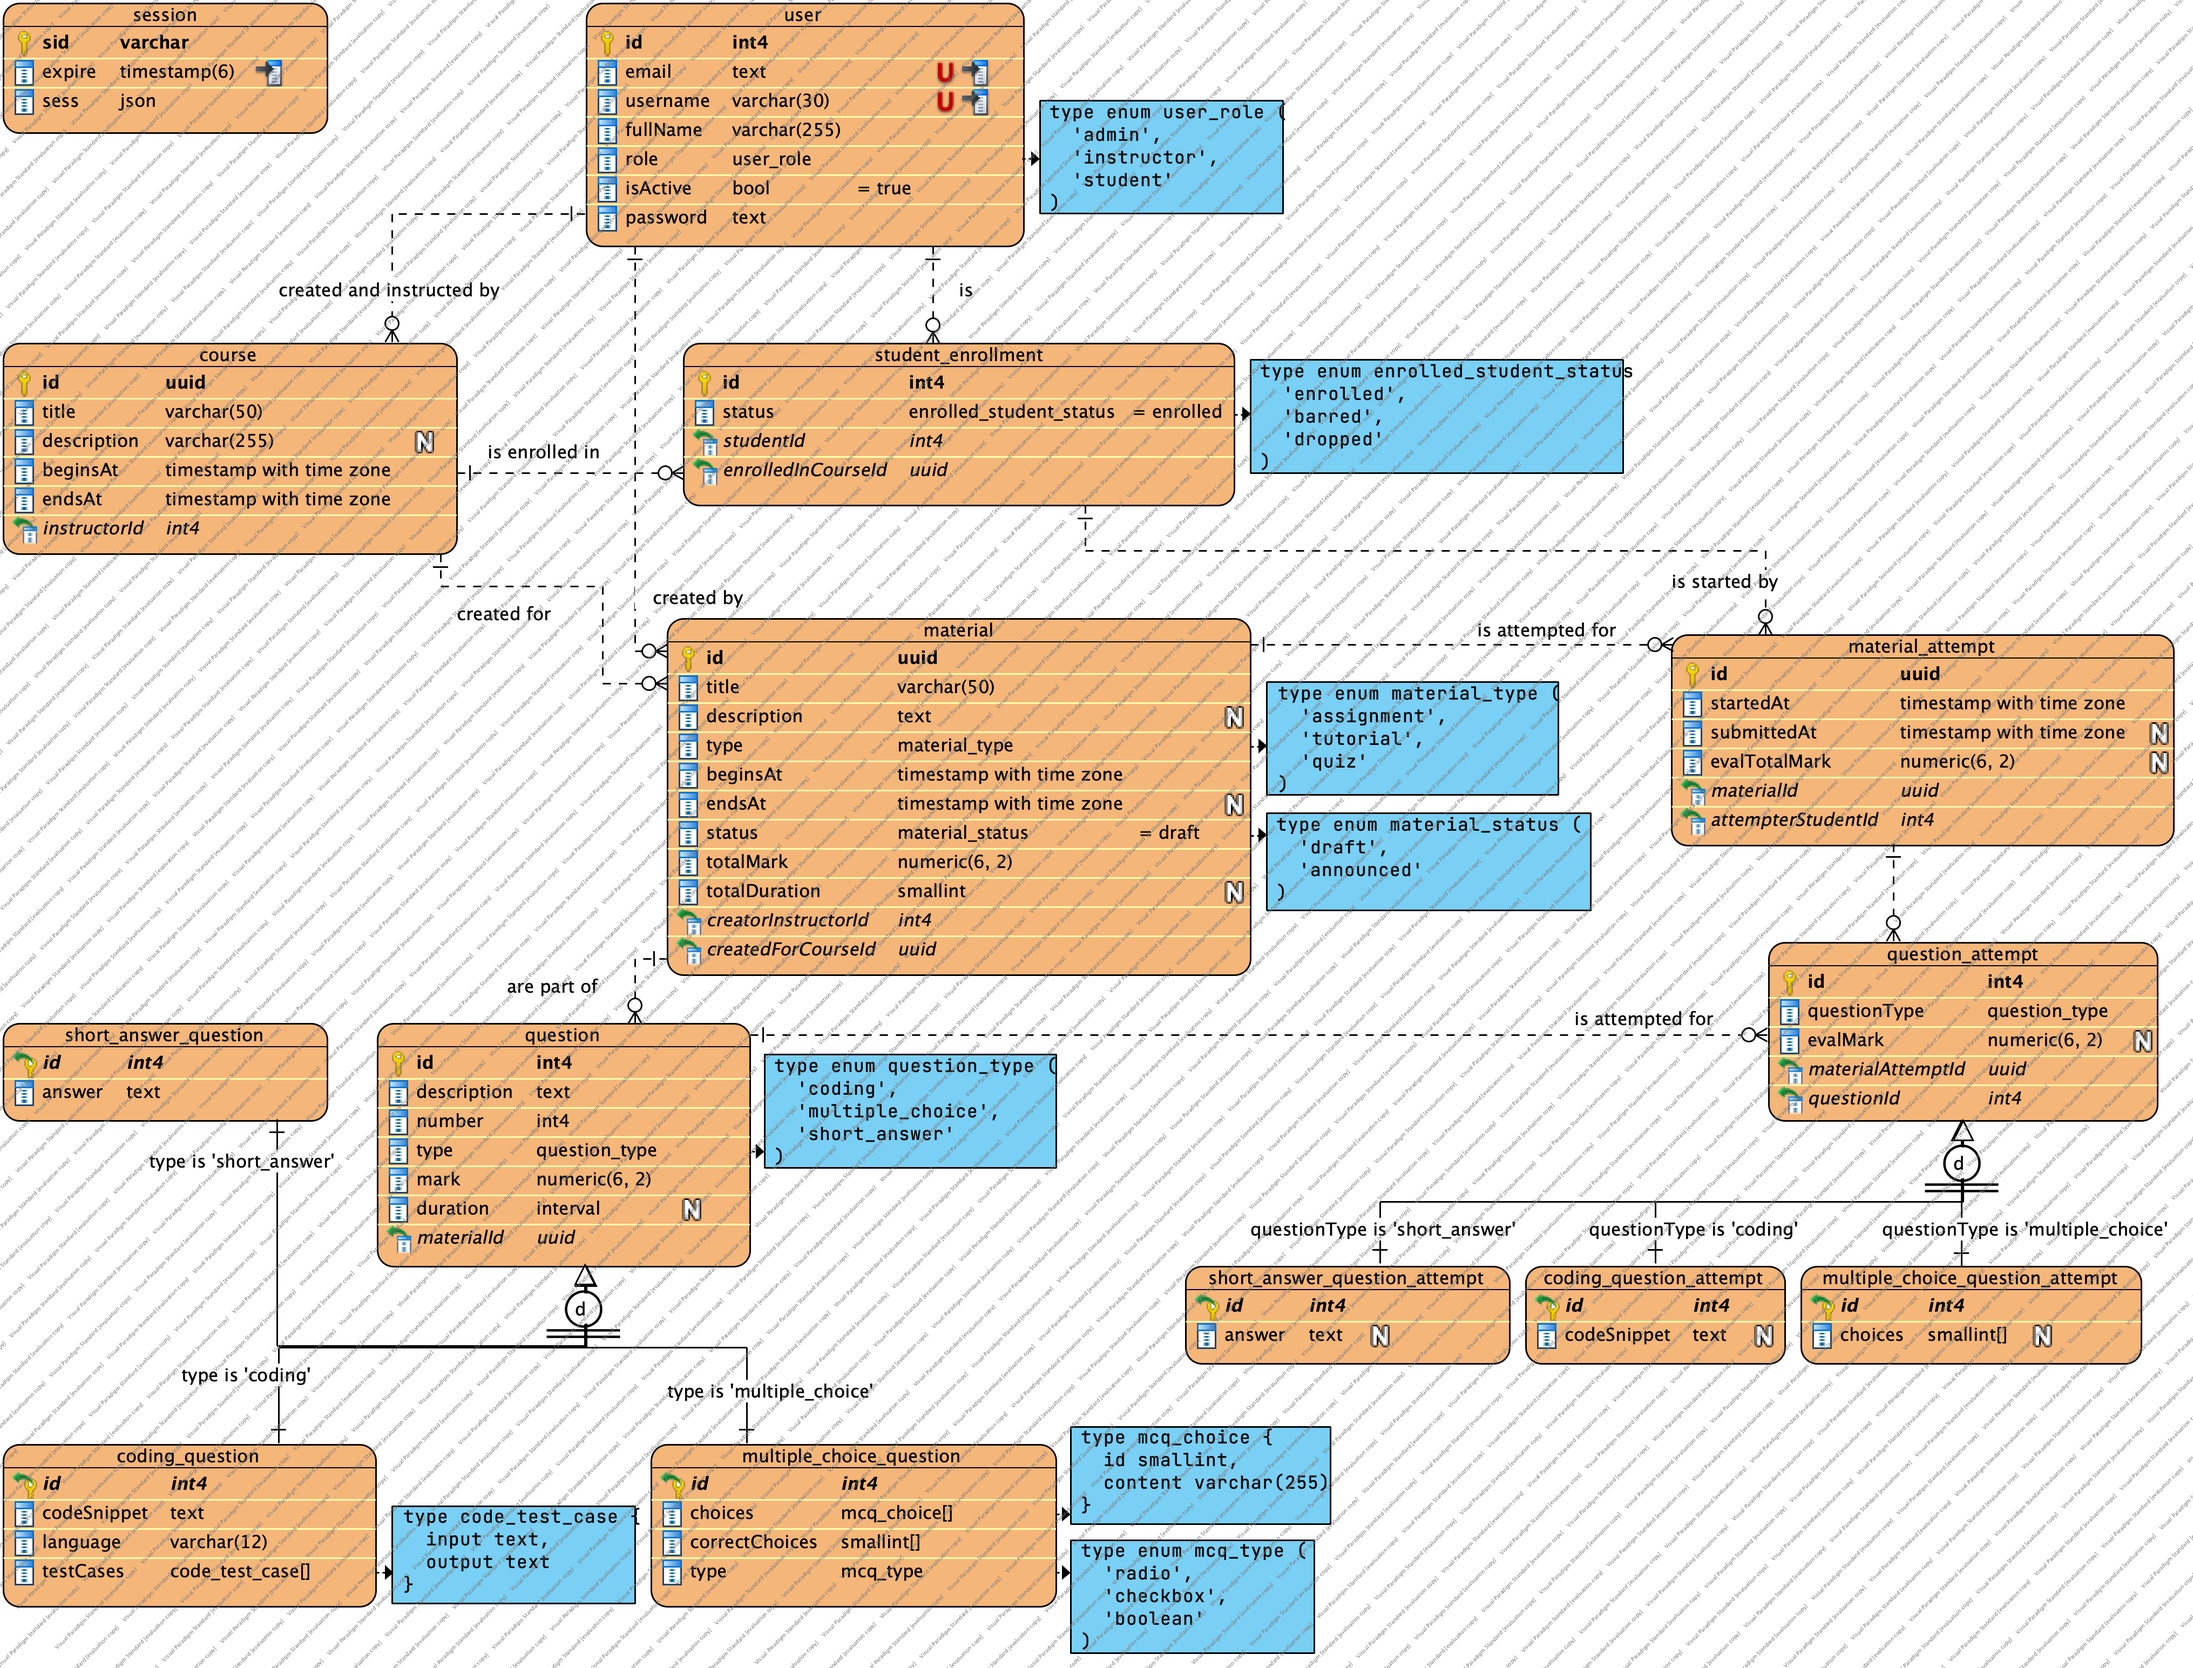
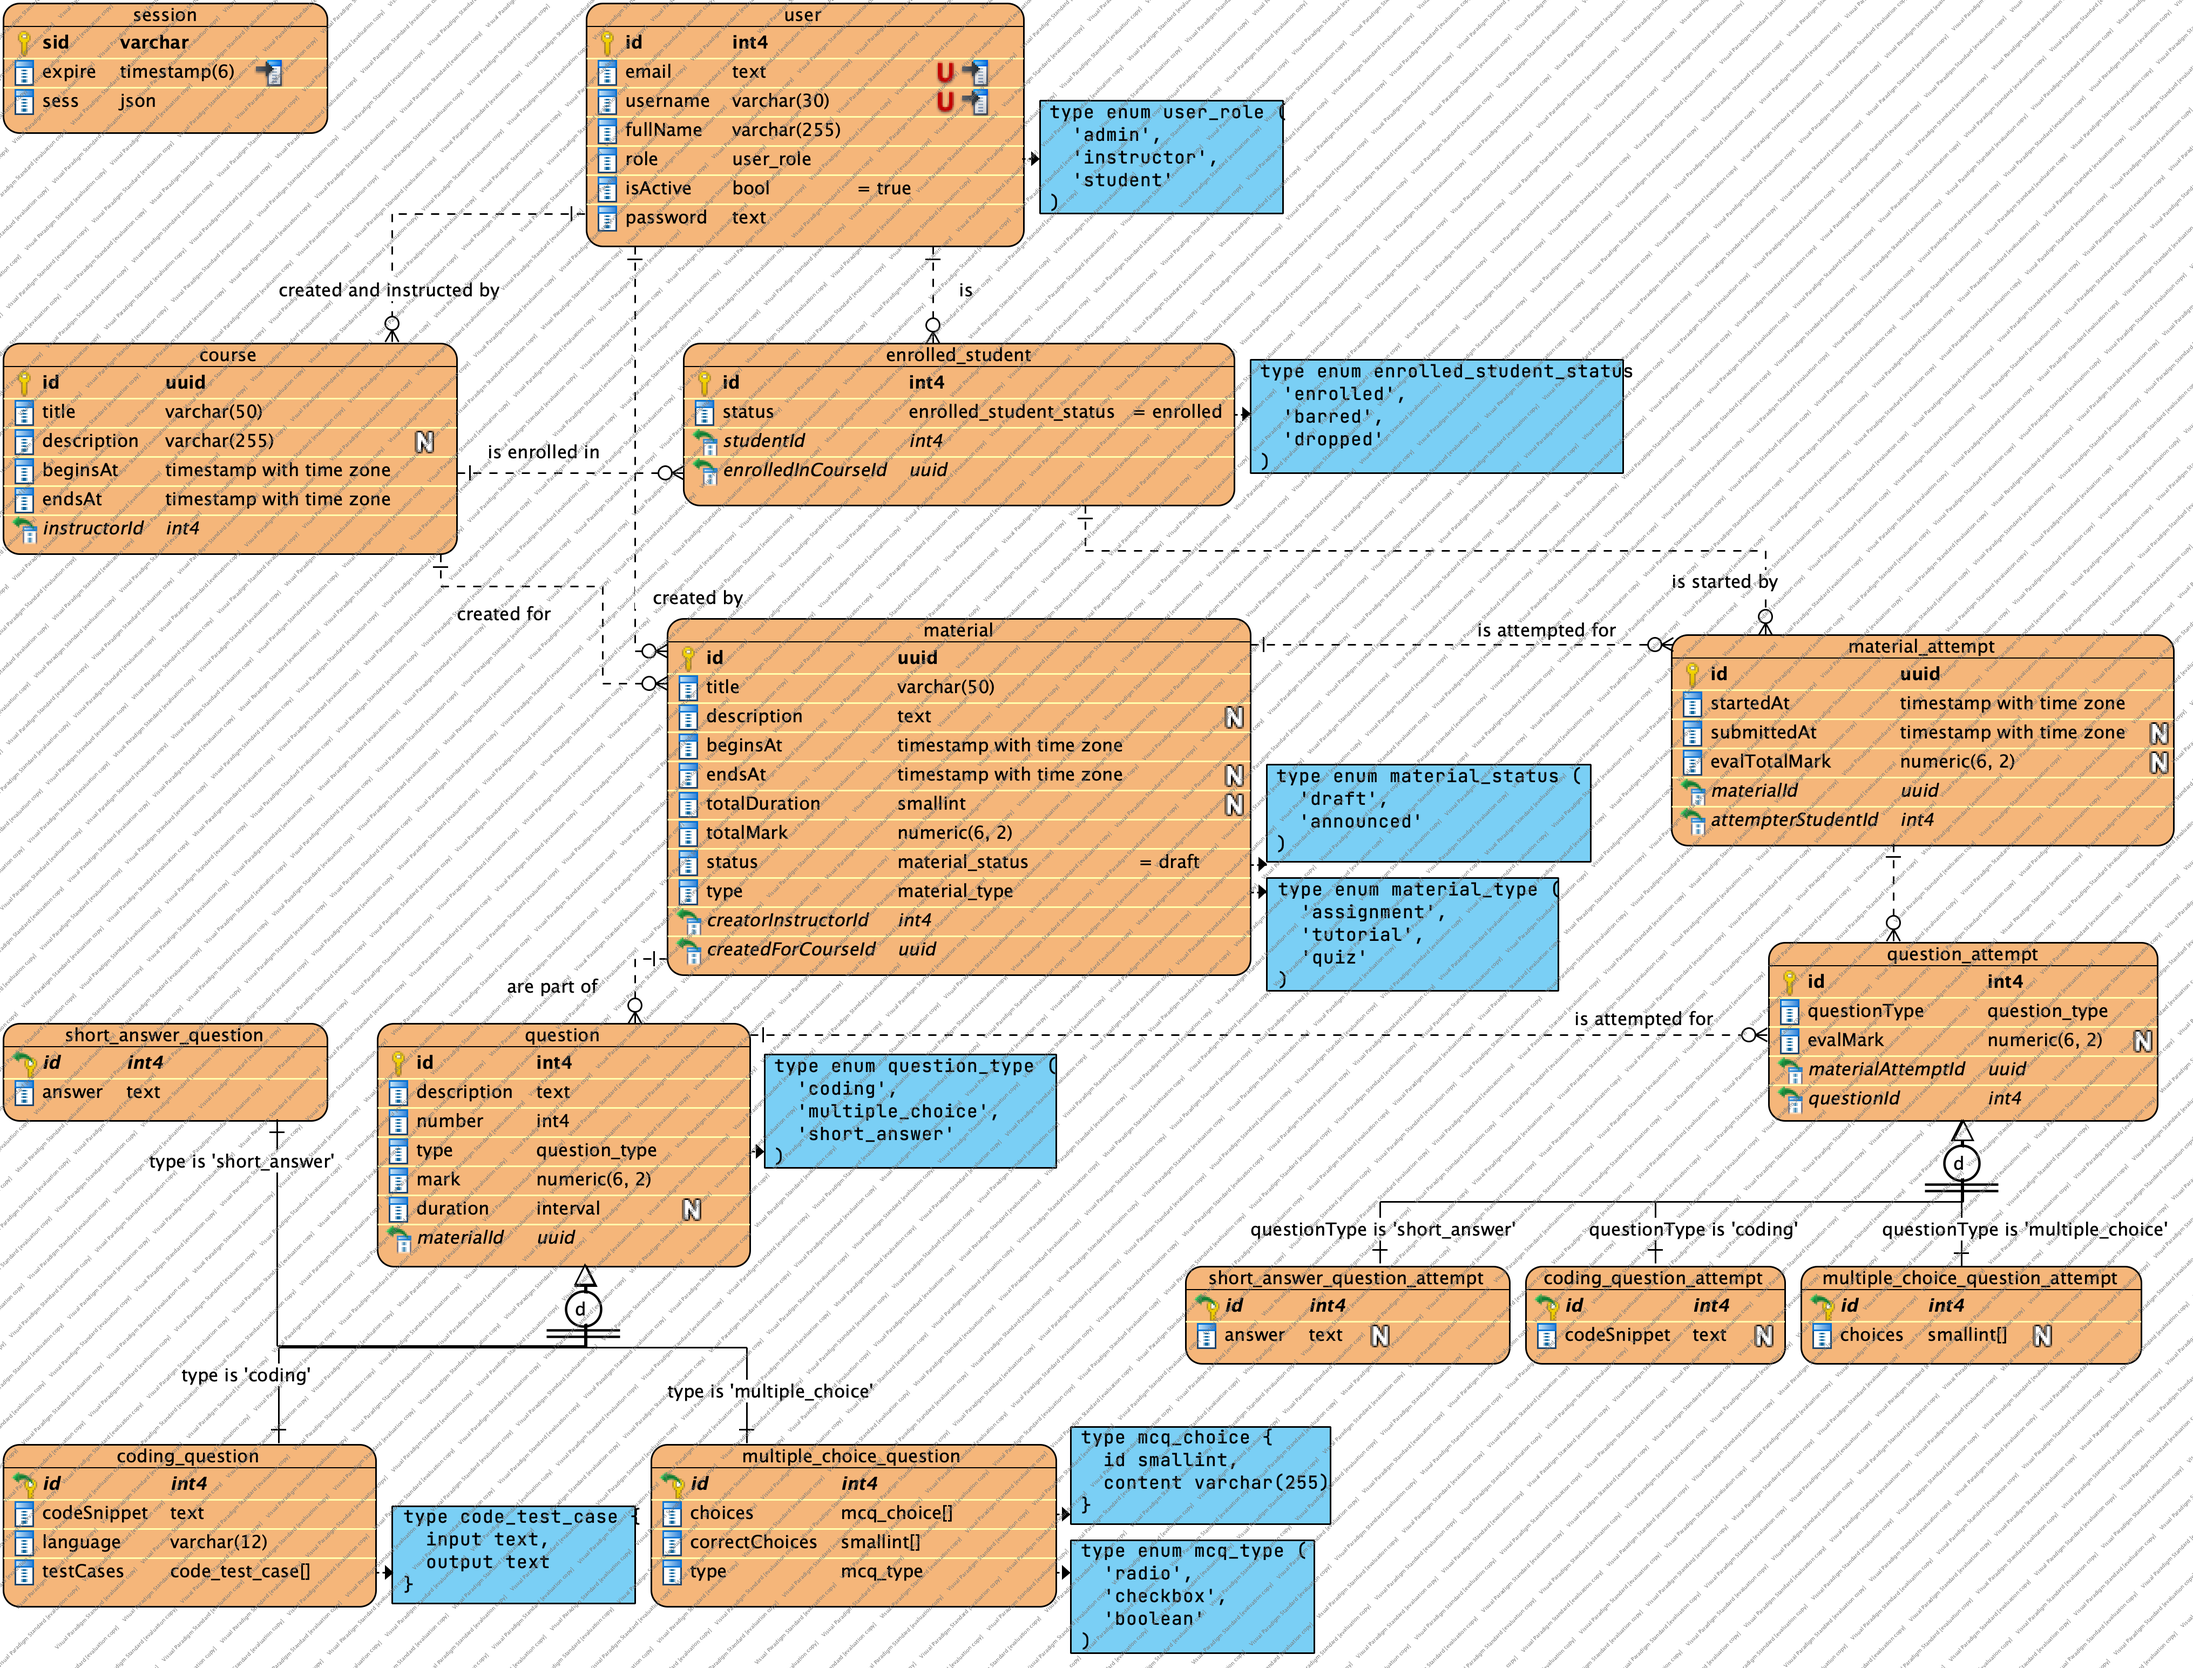
refactor(db/entities): rename `student_enrollment` to `enrolled_student`

diff --git a/libs/shared/data-access/src/lib/enrolled-students/enrolled-students.classes.ts b/libs/shared/data-access/src/lib/enrolled-students/enrolled-students.classes.ts
@@ -5,14 +5,14 @@ import { CourseDto } from '../courses/courses.classes';
 import { IsCourseId } from '../courses/courses.decorators';
 import { UserDto } from '../users/users.classes';
 import { IsUserId } from '../users/users.decorators';
-import { IsStudentEnrollmentId, IsStudentEnrollmentStatus } from './student-enrollments.decorators';
-import { EnrolledStudentStatus } from './student-enrollments.types';
+import { IsEnrolledStudentId, IsEnrolledStudentStatus } from './enrolled-students.decorators';
+import { EnrolledStudentStatus } from './enrolled-students.types';
 
-export class StudentEnrollment {
-  @IsStudentEnrollmentId()
+export class EnrolledStudent {
+  @IsEnrolledStudentId()
   id!: number;
 
-  @IsStudentEnrollmentStatus()
+  @IsEnrolledStudentStatus()
   status = EnrolledStudentStatus.Enrolled;
 
   /* JOINED RELATIONS */
@@ -31,19 +31,19 @@ export class StudentEnrollment {
   enrolledInCourse?: CourseDto;
 }
 
-export class StudentEnrollmentDto extends PickType(StudentEnrollment, [
+export class EnrolledStudentDto extends PickType(EnrolledStudent, [
   'id',
   'status',
   'studentId',
   'enrolledInCourseId',
 ]) {}
 
-export class CreateStudentEnrollmentDto extends PickType(StudentEnrollment, [
+export class CreateEnrolledStudentDto extends PickType(EnrolledStudent, [
   'id',
   'studentId',
   'enrolledInCourse',
 ]) {}
 
-export class CreatedStudentEnrollmentDto extends PickType(StudentEnrollment, ['id']) {}
+export class CreatedEnrolledStudentDto extends PickType(EnrolledStudent, ['id']) {}
 
-export class UpdateStudentEnrollmentDto extends PartialType(CreateStudentEnrollmentDto) {}
+export class UpdateEnrolledStudentDto extends PartialType(CreateEnrolledStudentDto) {}

diff --git a/apps/bff/src/db/entities/enrolled-student.entity.ts b/apps/bff/src/db/entities/enrolled-student.entity.ts
@@ -1,10 +1,10 @@
-import { EnrolledStudentStatus, StudentEnrollment } from '@pcs/shared-data-access';
+import { EnrolledStudent, EnrolledStudentStatus } from '@pcs/shared-data-access';
 import { CourseEntity } from 'src/db/entities/course.entity';
 import { UserEntity } from 'src/db/entities/user.entity';
 import { Column, Entity, JoinColumn, ManyToOne, PrimaryGeneratedColumn } from 'typeorm';
 
-@Entity('student_enrollment')
-export class StudentEnrollmentEntity extends StudentEnrollment {
+@Entity('enrolled_student')
+export class EnrolledStudentEntity extends EnrolledStudent {
   @PrimaryGeneratedColumn('increment')
   id!: number;
 
@@ -20,14 +20,14 @@ export class StudentEnrollmentEntity extends StudentEnrollment {
   @Column('integer')
   studentId!: number;
 
-  @ManyToOne(() => UserEntity, (user) => user.studentEnrollments)
+  @ManyToOne(() => UserEntity, (user) => user.enrolledStudents)
   @JoinColumn({ name: 'studentId', referencedColumnName: 'id' })
   student!: UserEntity;
 
   @Column('integer')
   enrolledInCourseId!: string;
 
-  @ManyToOne(() => CourseEntity, (course) => course.studentEnrollments)
+  @ManyToOne(() => CourseEntity, (course) => course.enrolledStudents)
   @JoinColumn({ name: 'enrolledInCourseId', referencedColumnName: 'id' })
   enrolledInCourse?: CourseEntity;
 }

diff --git a/apps/bff/src/db/entities/course.entity.ts b/apps/bff/src/db/entities/course.entity.ts
@@ -1,6 +1,6 @@
 import { Course } from '@pcs/shared-data-access';
+import { EnrolledStudentEntity } from 'src/db/entities/enrolled-student.entity';
 import { MaterialEntity } from 'src/db/entities/material.entity';
-import { StudentEnrollmentEntity } from 'src/db/entities/student-enrollment.entity';
 import { UserEntity } from 'src/db/entities/user.entity';
 import { Column, Entity, JoinColumn, ManyToOne, OneToMany, PrimaryGeneratedColumn } from 'typeorm';
 
@@ -35,12 +35,8 @@ export class CourseEntity extends Course {
   @OneToMany(() => MaterialEntity, (material) => material.createdForCourse, { nullable: true })
   materials?: MaterialEntity[] | null;
 
-  @OneToMany(
-    () => StudentEnrollmentEntity,
-    (studentEnrollment) => studentEnrollment.enrolledInCourse,
-    {
-      nullable: true,
-    },
-  )
-  studentEnrollments?: StudentEnrollmentEntity[] | null;
+  @OneToMany(() => EnrolledStudentEntity, (enrolledStudent) => enrolledStudent.enrolledInCourse, {
+    nullable: true,
+  })
+  enrolledStudents?: EnrolledStudentEntity[] | null;
 }

diff --git a/apps/bff/src/db/entities/user.entity.ts b/apps/bff/src/db/entities/user.entity.ts
@@ -1,6 +1,6 @@
 import { User, UserRole } from '@pcs/shared-data-access';
+import { EnrolledStudentEntity } from 'src/db/entities/enrolled-student.entity';
 import { MaterialEntity } from 'src/db/entities/material.entity';
-import { StudentEnrollmentEntity } from 'src/db/entities/student-enrollment.entity';
 import { Column, Entity, Index, OneToMany, PrimaryGeneratedColumn } from 'typeorm';
 import { CourseEntity } from './course.entity';
 
@@ -36,8 +36,8 @@ export class UserEntity extends User {
   @OneToMany(() => MaterialEntity, (material) => material.creatorInstructor, { nullable: true })
   instructorCreatedMaterials?: MaterialEntity[] | null;
 
-  @OneToMany(() => StudentEnrollmentEntity, (studentEnrollment) => studentEnrollment.student, {
+  @OneToMany(() => EnrolledStudentEntity, (enrolledStudent) => enrolledStudent.student, {
     nullable: true,
   })
-  studentEnrollments?: StudentEnrollmentEntity[] | null;
+  enrolledStudents?: EnrolledStudentEntity[] | null;
 }

diff --git a/libs/shared/data-access/src/lib/users/users.classes.ts b/libs/shared/data-access/src/lib/users/users.classes.ts
@@ -1,5 +1,4 @@
 import { PartialType, PickType } from '@aboqasem/mapped-types';
-import { StudentEnrollmentDto } from '../student-enrollments/student-enrollments.classes';
 import { Transform, Type } from 'class-transformer';
 import {
   ArrayMaxSize,
@@ -11,6 +10,7 @@ import {
   ValidateNested,
 } from 'class-validator';
 import { CourseDto } from '../courses/courses.classes';
+import { EnrolledStudentDto } from '../enrolled-students/enrolled-students.classes';
 import { MaterialDto } from '../materials/materials.classes';
 import { FilterDisabledConstraints } from '../validation/validation.decorators';
 import {
@@ -56,9 +56,9 @@ export class User {
   @IsOptional()
   instructorCreatedMaterials?: MaterialDto[] | null;
 
-  @Type(() => StudentEnrollmentDto)
+  @Type(() => EnrolledStudentDto)
   @IsOptional()
-  studentEnrollments?: StudentEnrollmentDto[] | null;
+  enrolledStudents?: EnrolledStudentDto[] | null;
 }
 
 export class UserDto extends PickType(User, [

diff --git a/apps/bff/src/config/orm.config.ts b/apps/bff/src/config/orm.config.ts
@@ -1,7 +1,7 @@
 import { TypeOrmModuleOptions } from '@nestjs/typeorm';
 import { CourseEntity } from 'src/db/entities/course.entity';
+import { EnrolledStudentEntity } from 'src/db/entities/enrolled-student.entity';
 import { MaterialEntity } from 'src/db/entities/material.entity';
-import { StudentEnrollmentEntity } from 'src/db/entities/student-enrollment.entity';
 import { UserEntity } from 'src/db/entities/user.entity';
 import { PostgresConnectionOptions } from 'typeorm/driver/postgres/PostgresConnectionOptions';
 import { config } from './config';
@@ -9,7 +9,7 @@ import { config } from './config';
 export const ormConfig = {
   type: 'postgres',
   url: config.DATABASE_URL,
-  entities: [UserEntity, CourseEntity, MaterialEntity, StudentEnrollmentEntity],
+  entities: [UserEntity, CourseEntity, MaterialEntity, EnrolledStudentEntity],
   synchronize: false,
   ssl: config.DATABASE_SECURE && { rejectUnauthorized: false },
   logging: config.DATABASE_LOGGING,

diff --git a/libs/shared/data-access/src/lib/courses/courses.classes.ts b/libs/shared/data-access/src/lib/courses/courses.classes.ts
@@ -1,8 +1,8 @@
 import { PartialType, PickType } from '@aboqasem/mapped-types';
 import { Type } from 'class-transformer';
 import { IsOptional } from 'class-validator';
+import { EnrolledStudentDto } from '../enrolled-students/enrolled-students.classes';
 import { MaterialDto } from '../materials/materials.classes';
-import { StudentEnrollmentDto } from '../student-enrollments/student-enrollments.classes';
 import { UserDto } from '../users/users.classes';
 import { IsUserId } from '../users/users.decorators';
 import {
@@ -44,9 +44,9 @@ export class Course {
   @IsOptional()
   materials?: MaterialDto[] | null;
 
-  @Type(() => StudentEnrollmentDto)
+  @Type(() => EnrolledStudentDto)
   @IsOptional()
-  studentEnrollments?: StudentEnrollmentDto[] | null;
+  enrolledStudents?: EnrolledStudentDto[] | null;
 }
 
 export class CourseDto extends PickType(Course, [

diff --git a/libs/shared/data-access/src/lib/enrolled-students/enrolled-students.decorators.ts b/libs/shared/data-access/src/lib/enrolled-students/enrolled-students.decorators.ts
@@ -1,13 +1,13 @@
 import { IsEnum, IsPositive } from 'class-validator';
-import { EnrolledStudentStatus } from './student-enrollments.types';
+import { EnrolledStudentStatus } from './enrolled-students.types';
 
-export function IsStudentEnrollmentId(): PropertyDecorator {
+export function IsEnrolledStudentId(): PropertyDecorator {
   return function (target, propertyKey) {
     IsPositive()(target, propertyKey);
   };
 }
 
-export function IsStudentEnrollmentStatus(): PropertyDecorator {
+export function IsEnrolledStudentStatus(): PropertyDecorator {
   return function (target, propertyKey) {
     IsEnum(EnrolledStudentStatus)(target, propertyKey);
   };

diff --git a/libs/shared/data-access/src/index.ts b/libs/shared/data-access/src/index.ts
@@ -8,8 +8,8 @@ export * from './lib/shared/shared.decorators';
 export * from './lib/shared/shared.exceptions';
 export * from './lib/shared/shared.types';
 export * from './lib/shared/string.utils';
-export * from './lib/student-enrollments/student-enrollments.classes';
-export * from './lib/student-enrollments/student-enrollments.types';
+export * from './lib/enrolled-students/enrolled-students.classes';
+export * from './lib/enrolled-students/enrolled-students.types';
 export * from './lib/users/users.api';
 export * from './lib/users/users.classes';
 export * from './lib/users/users.types';

diff --git a/apps/bff/src/db/migrations/1636758253705-RenameStudentEnrollment.ts b/apps/bff/src/db/migrations/1636758253705-RenameStudentEnrollment.ts
@@ -1,0 +1,13 @@
+import { MigrationInterface, QueryRunner } from 'typeorm';
+
+export class RenameStudentEnrollment1636758253705 implements MigrationInterface {
+  name = 'RenameStudentEnrollment1636758253705';
+
+  public async up(queryRunner: QueryRunner): Promise<void> {
+    await queryRunner.renameTable('student_enrollment', 'enrolled_student');
+  }
+
+  public async down(queryRunner: QueryRunner): Promise<void> {
+    await queryRunner.renameTable('enrolled_student', 'student_enrollment');
+  }
+}

diff --git a/apps/bff/src/db/repositories/enrolled-student.repository.ts b/apps/bff/src/db/repositories/enrolled-student.repository.ts
@@ -1,0 +1,5 @@
+import { EnrolledStudentEntity } from 'src/db/entities/enrolled-student.entity';
+import { EntityRepository, Repository } from 'typeorm';
+
+@EntityRepository(EnrolledStudentEntity)
+export class EnrolledStudentsRepository extends Repository<EnrolledStudentEntity> {}
